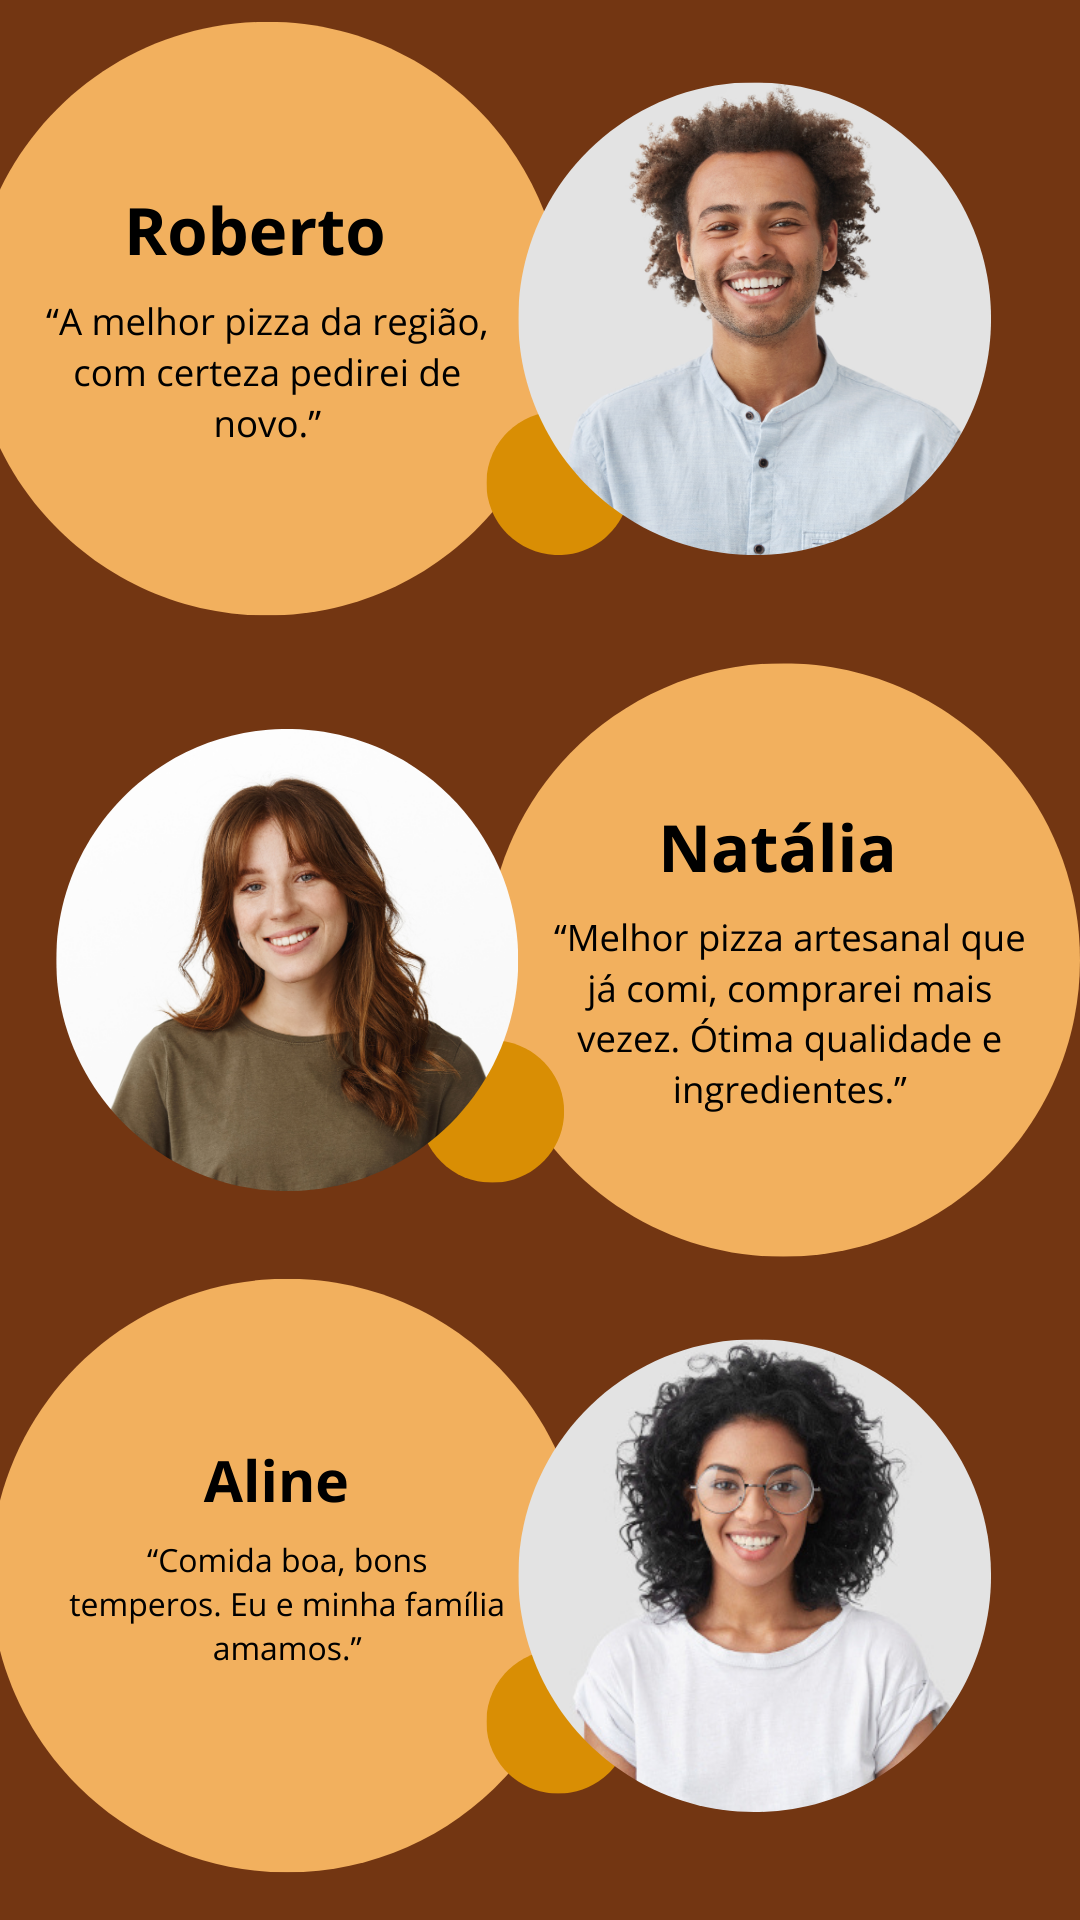
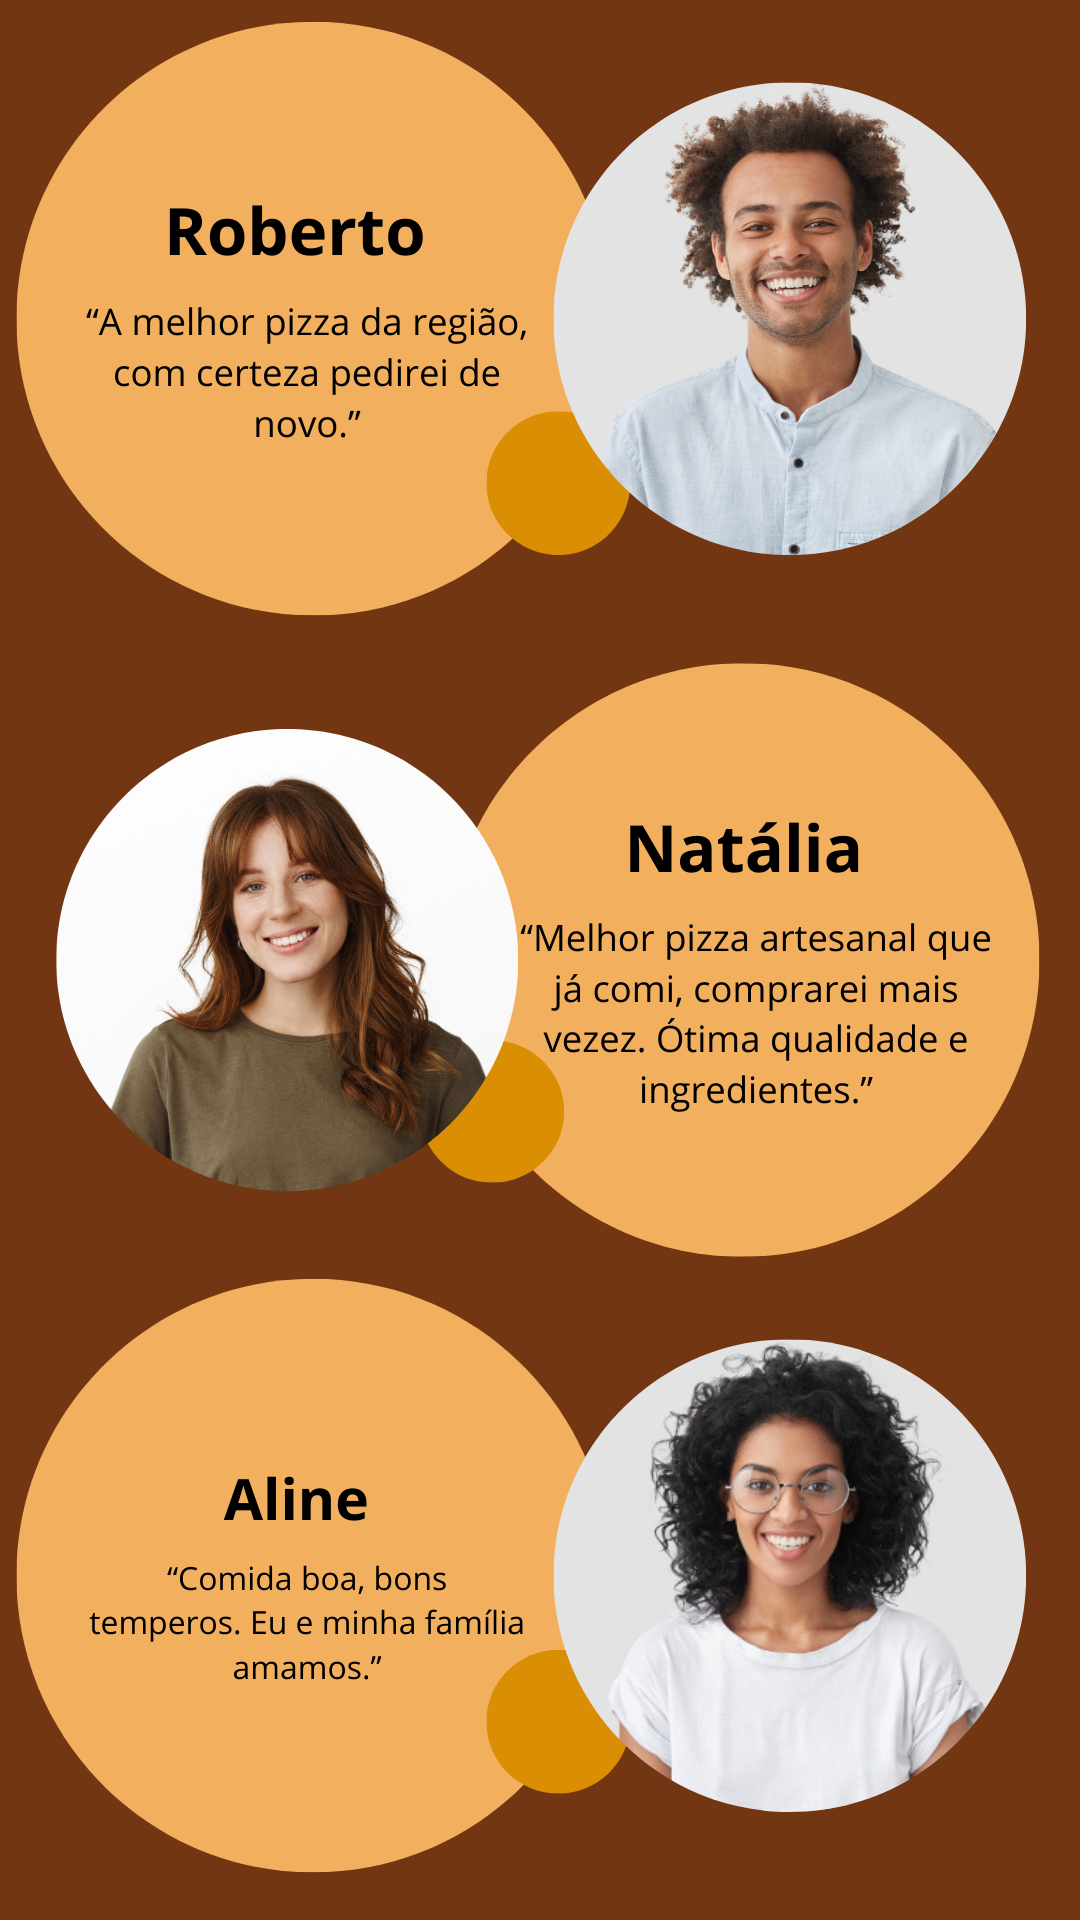
update version mobile

diff --git a/estilos/style.css b/estilos/style.css
@@ -25,19 +25,7 @@ body{
     background-color: #161616;
     overflow-x: hidden;
 }
-article{
-    background-image: url(../imagens/fundo5.png);
-    background-position: center center;
-    background-size: cover;
-    
-    display: flex;
-    justify-content: flex-start;
-    align-items: center;
-    
 
-    width: 100vw;
-    height: 590px;
-}
 
 nav li{
     display: inline-block;
@@ -80,7 +68,19 @@ img#img-supreme{
 
 
 
+article{
+    background-image: url(../imagens/fundo5.png);
+    background-position: center center;
+    background-size: cover;
+    
+    display: flex;
+    justify-content: flex-start;
+    align-items: center;
+    
 
+    width: 100vw;
+    height: 590px;
+}
 section#eslogan{
     margin-left: 110px;
     color: white;
@@ -177,10 +177,10 @@ section#avaliacao {
     justify-content: center;
     align-items: center;
 }
-section#avaliacao img{
-    width: 900px;
-    
+.ava2{
+    display: none;
 }
+
 
 
 footer{

diff --git a/estilos/mini.css b/estilos/mini.css
@@ -1,0 +1,47 @@
+@charset "UTF-8";
+
+@media screen and (max-width: 600px) {
+    header{
+        width: 100%;
+    }
+    nav li{
+        font-size: 0.8em;
+        text-align: right;
+    }
+    article{
+        background-image: url(../imagens/pizza-7.jpg);
+    }
+
+    section#photos{
+        background-image: url(../imagens/fundo02-mobile.png);
+      
+    }
+    section#photos h2{
+        padding: 10px;
+        background-color: black;
+        width: max-content;
+    }
+
+
+
+    section#avaliacao{
+        background-color: #733612;
+    }
+    .ava1{
+        display: none;
+    }
+    img.ava2{
+        display: flex;
+
+        width: 300px;
+    }
+
+
+    footer img.logo2{
+        width: 150px;
+    }
+    footer img.social{
+        width: 15px;
+        height: 15px;
+    }
+}

diff --git a/index.html b/index.html
@@ -7,7 +7,7 @@
     <link rel="shortcut icon" href="imagens/favicon-pizza.png" type="image/x-icon">
     <link rel="stylesheet" href="estilos/style.css">
     <link rel="stylesheet" href="estilos/media.css">
-    <link rel="stylesheet" href="estilos/grande.css">
+    <link rel="stylesheet" href="estilos/mini.css">
 
 
     <link rel="preconnect" href="https://fonts.googleapis.com">
@@ -56,7 +56,8 @@
         </section>
 
         <section id="avaliacao">
-            <img src="imagens/avaliacao.png" alt="">
+            <img class="ava1" src="imagens/avaliacao.png" alt="">
+            <img class="ava2" src="imagens/fundo-mobile.png" alt="">
         </section>
     </main>
     <footer>

diff --git a/estilos/media.css b/estilos/media.css
@@ -1,6 +1,6 @@
 @charset "UTF-8";
 
-@media screen and (min-width: 375px) and (max-width: 992px) {
+@media screen and (min-width: 600px) and (max-width: 992px) {
 
 }
 
